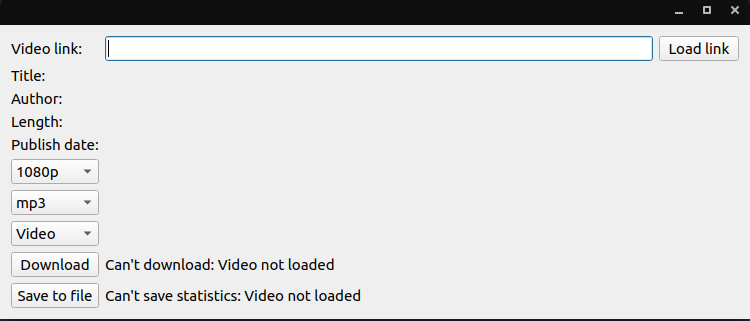
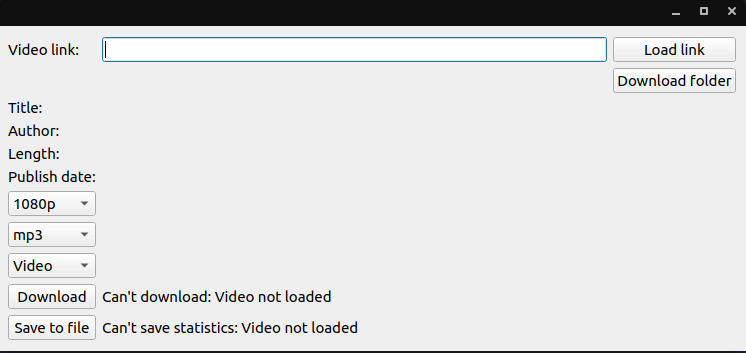
Added custom download folders

Changed region(s): [[0.0, 0.2804, 0.4933, 0.9657], [0.0, 0.0623, 1.0, 0.2804], [0.0, 0.2181, 0.0617, 0.2492]]

diff --git a/main.py b/main.py
@@ -1,4 +1,4 @@
-__version__ = '1.1.0'
+__version__ = '2.1.0'
 import pytube
 import datetime
 import os
@@ -23,6 +23,8 @@ class MainWindow(qtw.QWidget):
         self.resolutions = ['1080p', '720p', '480p', '360p', '240p', '144p']
         self.audio_types = ['mp3', 'wav', 'ogg']
 
+        self.download_path = 'Downloads/'
+
         self.title = ''
         self.author = ''
         self.description = ''
@@ -43,6 +45,9 @@ class MainWindow(qtw.QWidget):
 
         self.load_link_button = qtw.QPushButton('Load link', clicked = lambda: self.load_link())
         self.layout().addWidget(self.load_link_button, 0,3)
+
+        self.choose_download_folder = qtw.QPushButton('Download folder', clicked = lambda: self.select_download_folder())
+        self.layout().addWidget(self.choose_download_folder, 1,3)
 
         self.statistic_title_name = qtw.QLabel('Title:')
         self.statistic_title = qtw.QLabel(self.title)
@@ -87,6 +92,10 @@ class MainWindow(qtw.QWidget):
         self.statistics_status = qtw.QLabel("Can't save statistics: Video not loaded")
         self.layout().addWidget(self.statistics_status, 10,1)
 
+    def select_download_folder(self):
+        self.download_path = qtw.QFileDialog.getExistingDirectory(self, 'Select floder to download') + '/'
+        if self.download_path == '/': self.download_path = 'Downloads/'
+
     def load_link(self):
         if len(self.video_link_entry.text()) == 0:
             print('Add link to Video')
@@ -129,8 +138,8 @@ class MainWindow(qtw.QWidget):
             return -1
 
         self.video_audio_download_status.setText('Downloading video in ' + self.resolution.currentText())
-        print('Downloading video in:', self.resolution.currentText())
-        video_audio_downloader.download_file(self.you_tube_object, 'video', self.resolution.currentText(), self.audio_type.currentText())
+        print('Downloading video in:', self.resolution.currentText(), ' to path: ', self.download_path)
+        video_audio_downloader.download_file(self.you_tube_object, self.download_path, 'video', self.resolution.currentText(), self.audio_type.currentText())
         self.video_audio_download_status.setText('Video downloaded in ' + self.resolution.currentText())
 
     def download_audio(self):
@@ -139,8 +148,8 @@ class MainWindow(qtw.QWidget):
             return -1
         
         self.video_audio_download_status.setText('Downloading audio in ' + self.audio_type.currentText())
-        print('Downloading audio in:', self.audio_type.currentText())
-        video_audio_downloader.download_file(self.you_tube_object, 'audio', self.resolution.currentText(), self.audio_type.currentText())
+        print('Downloading audio in:', self.audio_type.currentText(), ' to path: ', self.download_path)
+        video_audio_downloader.download_file(self.you_tube_object, self.download_path, 'audio', self.resolution.currentText(), self.audio_type.currentText())
         self.video_audio_download_status.setText('Audio downloaded in ' + self.audio_type.currentText())
 
     def save_statistics_to_file(self):

diff --git a/video_downloader.py b/video_downloader.py
@@ -3,7 +3,7 @@ import pytube
 import audio_downloader
 import video_audio_merge
 
-def download_video(youtube_object, res='720p') -> None:
+def download_video(youtube_object, download_path, res='720p') -> None:
     streams = youtube_object.streams.filter(res=res)
     if len(streams) == 0: 
         print('ERROR: Video has not given resolution, Try other one')
@@ -23,26 +23,26 @@ def download_video(youtube_object, res='720p') -> None:
     if stream_to_download == None:
         try:
             video_name = streams.first().download('VideoOperationsFile/Video/')
-            audio_name = audio_downloader.download_audio(youtube_object=youtube_object, codec='mp3',audio_for_video=True)
+            audio_name = audio_downloader.download_audio(youtube_object=youtube_object, download_path=download_path, codec='mp3',audio_for_video=True)
 
         except pytube.exceptions.LiveStreamError:
             print('ERROR! Live stream cannot be downloaded')
             return -1
 
         else: 
-            video_audio_merge.merge_video_audio(video_name, audio_name)
-            print('Done')
+            video_audio_merge.merge_video_audio(video_name, audio_name, download_path)
+            print(f'Downloaded video to path: {download_path}')
             return 0 
     else:
         try: 
-            streams.get_by_itag(stream_to_download.itag).download('Downloads/')
+            streams.get_by_itag(stream_to_download.itag).download(download_path)
         
         except pytube.exceptions.LiveStreamError:
             print('ERROR! Live stream cannot be downloaded')
             return -1
 
         else: 
-            print('Done')
+            print(f'Downloaded video to path: {download_path}')
             return 0 
 
 

diff --git a/audio_downloader.py b/audio_downloader.py
@@ -2,7 +2,7 @@ import pytube
 
 import video_to_audio_converter
 
-def download_audio(youtube_object, codec='mp3', audio_for_video = False) -> None: 
+def download_audio(youtube_object, download_path, codec='mp3', audio_for_video = False) -> None: 
     streams = youtube_object.streams.filter(only_audio=True)
     stream_to_download = None
     quality = 0
@@ -29,9 +29,9 @@ def download_audio(youtube_object, codec='mp3', audio_for_video = False) -> None
             print('ERROR! Live stream cannot be downloaded')
             return -1
 
-        else: video_to_audio_converter.convert_video_to_audio(downloaded_file_name, codec)
+        else: video_to_audio_converter.convert_video_to_audio(downloaded_file_name, codec, download_path)
 
-    print('Done')
+    print(f'Downloaded audio to path: {download_path}')
     return 0
 
 

diff --git a/video_to_audio_converter.py b/video_to_audio_converter.py
@@ -1,10 +1,11 @@
 import moviepy.editor as mp
 import os
 
-def convert_video_to_audio(video_name, codec) -> None:
+def convert_video_to_audio(video_name, codec, download_path) -> None:
     audio_name = video_name.split('VideoOperationsFile/')
-    audio_name = audio_name[0] + 'Downloads/' + audio_name[1]
-    audio_name = audio_name.split('.')[0] + '.' + codec
+    #audio_name = audio_name[0] + download_path + audio_name[1]
+    #audio_name = audio_name.split('.')[0] + '.' + codec
+    audio_name = download_path + audio_name[1] + '.' + codec
 
     file_to_convert = mp.AudioFileClip(video_name)
     file_to_convert .write_audiofile(audio_name)

diff --git a/video_audio_downloader.py b/video_audio_downloader.py
@@ -15,9 +15,9 @@ def load_file(link):
     else: return you_tube_object
 
 
-def download_file(you_tube_object, object_type, res, codec):
-    if object_type == 'video': video_downloader.download_video(you_tube_object, res)
-    elif object_type == 'audio': audio_downloader.download_audio(you_tube_object, codec, False)
+def download_file(you_tube_object, download_path, object_type, res, codec):
+    if object_type == 'video': video_downloader.download_video(you_tube_object, download_path, res)
+    elif object_type == 'audio': audio_downloader.download_audio(you_tube_object, download_path, codec, False)
     return 0
 
 #moviepy

diff --git a/video_audio_merge.py b/video_audio_merge.py
@@ -1,9 +1,10 @@
 import moviepy.editor as mp
 import os
 
-def merge_video_audio(video_name, audio_name):
+def merge_video_audio(video_name, audio_name, download_path):
     output_name = video_name.split('VideoOperationsFile/Video/')
-    output_name = output_name[0] + 'Downloads/' + output_name[1]
+    #output_name = output_name[0] + download_path + output_name[1]
+    output_name = download_path + output_name[1]
 
     video_file = mp.VideoFileClip(video_name)
     audio_file = mp.AudioFileClip(audio_name)

diff --git a/README.md b/README.md
@@ -1,5 +1,13 @@
 ![](/IMG/Program.png)
 
+current version: 2.1.0
+
+version 2.1.0
+Added: new audio codec (ogg) and custom download folders
+
+version 1.1.0
+Changed: GUI from Kivy to PyQT5
+
 version 1.0.0
 attributes:
     loading youtube objects with statistics
@@ -14,23 +22,3 @@ known issuses:
     converting audio and video to one file taking long time
 fixed things:
     -
-
-version 1.1.0
-attributes:
-    loading youtube objects with statistics
-    printing basics statistics in app
-    saving statistics to file
-    downloading video in [144p, 240p, 360p, 480p, 720p, 1080p]
-    downloading audio in [mp3 ,wav]
-    basic gui
-known bugs:
-    app crashing at downloading live stream video/aduio
-    saving statistics failes on Windows
-known issuses:
-    converting audio and video to one file taking long time
-fixed things:
-    -
-changed things:
-    Changed GUI from Kivy to PyQT5
-
-current version: 1.1.0
